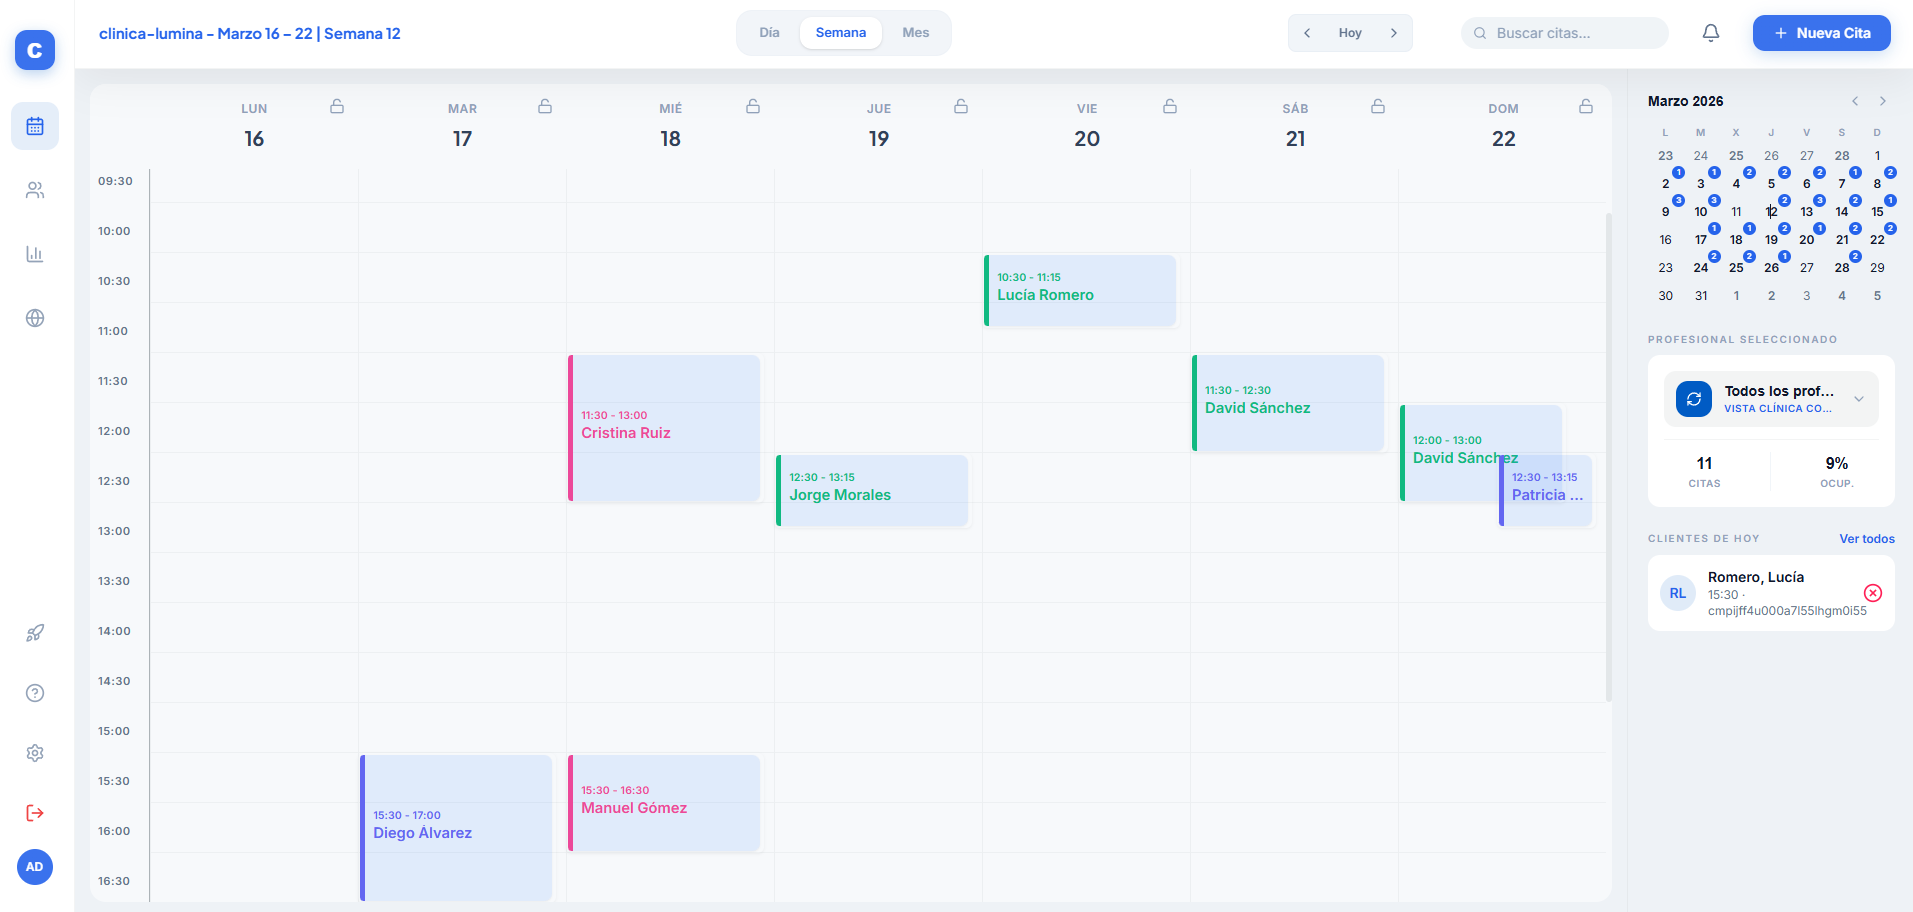
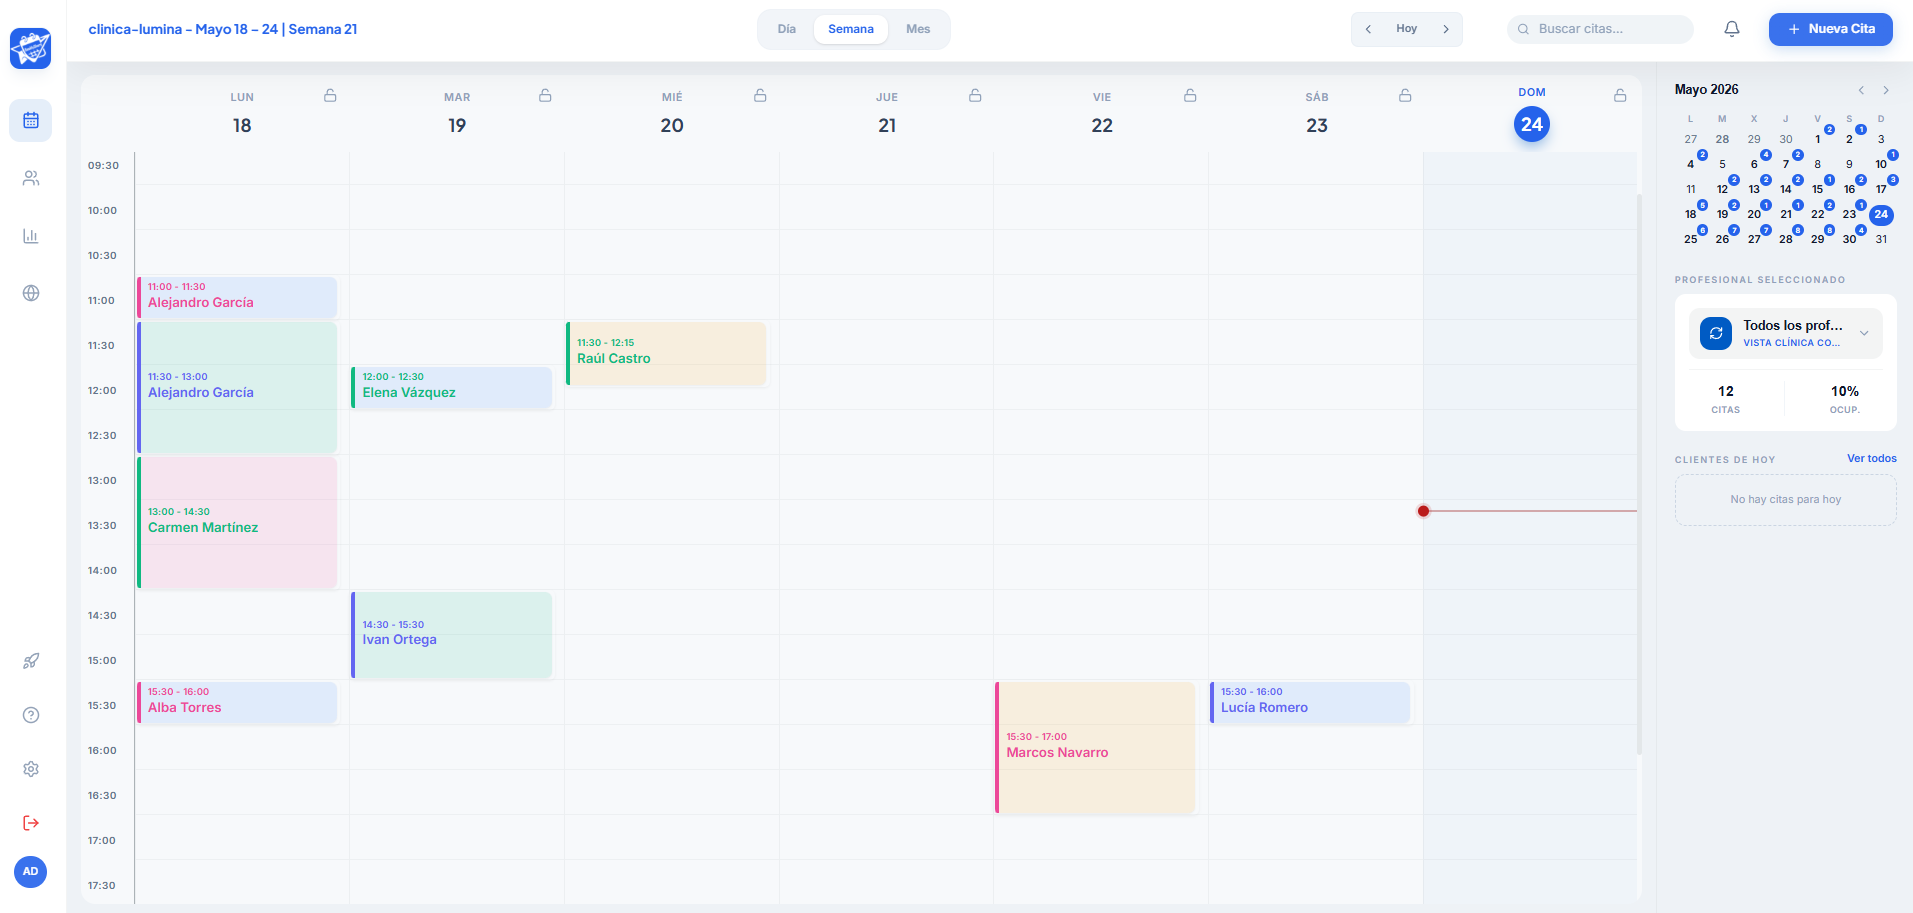
feat: mobile responsive layout for calendar with toggle buttons

diff --git a/src/app/[alias]/page.tsx b/src/app/[alias]/page.tsx
@@ -16,11 +16,9 @@ import { Sidebar } from '@/components/Sidebar';
 import { OnboardingGuide } from '@/components/OnboardingGuide';
 
 // ── Lucide icons (same set as Sidebar.tsx) ──────────────────────────────────
-import {
   CalendarDays, Users, LayoutDashboard, BarChart3, Globe,
   Settings, LogOut, Search, Bell, Plus, ChevronLeft, ChevronRight, HelpCircle,
-  RefreshCw, CheckCircle2, XCircle
-} from 'lucide-react';
+  RefreshCw, CheckCircle2, XCircle, Menu
 
 // ── date-fns ─────────────────────────────────────────────────────────────────
 import {
@@ -61,6 +59,11 @@ export default function TenantCalendarPage() {
 
   // FASE 5: Preparación para Onboarding Tips
   const [showTips, setShowTips] = useState(false);
+
+  // Mobile responsive states
+  const [mobileSidebarOpen, setMobileSidebarOpen] = useState(false);
+  const [mobileRightbarOpen, setMobileRightbarOpen] = useState(false);
+
   useEffect(() => {
     if (user && user.first_login_completed === false) {
       // Also verify we haven't dismissed it this session fallback
@@ -231,7 +234,7 @@ export default function TenantCalendarPage() {
       {/* ══════════════════════════════════════════════
           SIDEBAR — Lucide icons, same style as Sidebar.tsx
       ══════════════════════════════════════════════ */}
-      <Sidebar />
+      <Sidebar mobileOpen={mobileSidebarOpen} onClose={() => setMobileSidebarOpen(false)} />
 
       {/* ══════════════════════════════════════════════
           MAIN AREA
@@ -239,7 +242,7 @@ export default function TenantCalendarPage() {
       <main className="flex-1 flex flex-col min-h-0 overflow-hidden">
 
         <header
-          className="flex-shrink-0 flex justify-between items-center px-6 py-3 z-40 transition-colors"
+          className="hidden md:flex flex-shrink-0 justify-between items-center px-6 py-3 z-40 transition-colors"
           style={{ background: 'var(--bg-surface, rgba(255,255,255,.92))', backdropFilter: 'blur(20px)', boxShadow: 'var(--card-shadow, 0 12px 40px rgba(0,0,0,.06))', borderBottom: '1px solid var(--border-color)', minHeight: 56 }}>
 
           {/* Left: calendar toolbar portal  (CalendarView injects its toolbar here) */}
@@ -318,9 +321,14 @@ export default function TenantCalendarPage() {
           {/* ══════════════════════════════════════════
               RIGHT SIDEBAR
           ══════════════════════════════════════════ */}
+          {mobileRightbarOpen && (
+            <div className="md:hidden fixed inset-0 bg-black/20 z-40" onClick={() => setMobileRightbarOpen(false)} />
+          )}
           <aside
-            className="w-72 flex-shrink-0 flex flex-col gap-6 overflow-y-auto p-5 transition-colors"
-            style={{ background: 'var(--bg-main, #f0f4f7)', borderLeft: '1px solid var(--border-color)' }}>
+            className={`w-72 flex-shrink-0 flex-col gap-6 overflow-y-auto p-5 transition-colors bg-[var(--bg-main)] z-50 ${
+              mobileRightbarOpen ? "flex fixed right-0 top-0 bottom-0 shadow-2xl" : "hidden md:flex"
+            }`}
+            style={{ borderLeft: '1px solid var(--border-color)' }}>
 
             {/* ── Mini-calendar ─────────────────────── */}
             <section>
@@ -541,6 +549,35 @@ export default function TenantCalendarPage() {
       {showTips && (
         <OnboardingGuide alias={alias} onClose={handleCloseTips} />
       )}
+
+      {/* ── Mobile Floating Buttons ────────────────────────────────────────── */}
+      <div className="md:hidden fixed bottom-6 left-6 z-30 flex flex-col gap-4">
+        <button 
+          onClick={() => setMobileSidebarOpen(true)}
+          className="w-14 h-14 bg-white rounded-full shadow-[0_8px_30px_rgb(0,0,0,0.12)] flex items-center justify-center text-[var(--primary)] border border-slate-100 transition-transform active:scale-95"
+          aria-label="Abrir menú"
+        >
+          <Menu className="w-6 h-6" />
+        </button>
+      </div>
+      <div className="md:hidden fixed bottom-6 right-6 z-30 flex flex-col gap-4">
+        <button 
+          onClick={() => setMobileRightbarOpen(true)}
+          className="w-14 h-14 bg-white rounded-full shadow-[0_8px_30px_rgb(0,0,0,0.12)] flex items-center justify-center text-[var(--primary)] border border-slate-100 transition-transform active:scale-95"
+          aria-label="Abrir información"
+        >
+          <Users className="w-6 h-6" />
+        </button>
+        {/* Mobile quick add appointment button */}
+        <button 
+          onClick={openNuevaCita}
+          className="w-14 h-14 text-white rounded-full shadow-[0_8px_30px_rgb(0,0,0,0.22)] flex items-center justify-center transition-transform active:scale-95"
+          style={{ background: 'linear-gradient(135deg, var(--primary), var(--primary))' }}
+          aria-label="Nueva Cita"
+        >
+          <Plus className="w-7 h-7" />
+        </button>
+      </div>
     </div>
   );
 }

diff --git a/src/components/Sidebar.tsx b/src/components/Sidebar.tsx
@@ -31,7 +31,7 @@ function initials(name: string) {
   return (p.length >= 2 ? p[0][0] + p[p.length - 1][0] : name.slice(0, 2)).toUpperCase();
 }
 
-export function Sidebar() {
+export function Sidebar({ mobileOpen, onClose }: { mobileOpen?: boolean, onClose?: () => void } = {}) {
     const pathname = usePathname();
     const { logout, user } = useAuth();
     const { settings } = useSettings();
@@ -55,10 +55,17 @@ export function Sidebar() {
     if (!user) return null;
 
     return (
-        <aside
-            className="hidden md:flex flex-col items-center py-8 gap-8 flex-shrink-0 z-20 sticky top-0 h-screen transition-colors duration-300 bg-[var(--bg-sidebar)] border-r border-[var(--border-color)]"
-            style={{ width: 80 }}
-        >
+        <>
+            {mobileOpen && (
+                <div className="md:hidden fixed inset-0 bg-black/20 z-40" onClick={onClose} />
+            )}
+            <aside
+                className={cn(
+                    "flex-col items-center py-8 gap-8 flex-shrink-0 z-50 h-screen transition-colors duration-300 bg-[var(--bg-sidebar)] border-r border-[var(--border-color)]",
+                    mobileOpen ? "flex fixed left-0 top-0" : "hidden md:flex sticky top-0"
+                )}
+                style={{ width: 80 }}
+            >
             <div>
               <div className="w-12 h-12 relative flex items-center justify-center rounded-xl shadow-lg shadow-slate-200/50 border border-slate-100 transition-transform hover:scale-105 duration-300 overflow-hidden">
                 <img 
@@ -156,5 +163,6 @@ export function Sidebar() {
             {isGuideOpen && <OnboardingGuide alias={alias} onClose={() => setIsGuideOpen(false)} />}
             {isChatOpen && <DifyChatbot isOpen={isChatOpen} onClose={() => setIsChatOpen(false)} />}
         </aside>
+        </>
     );
 }
